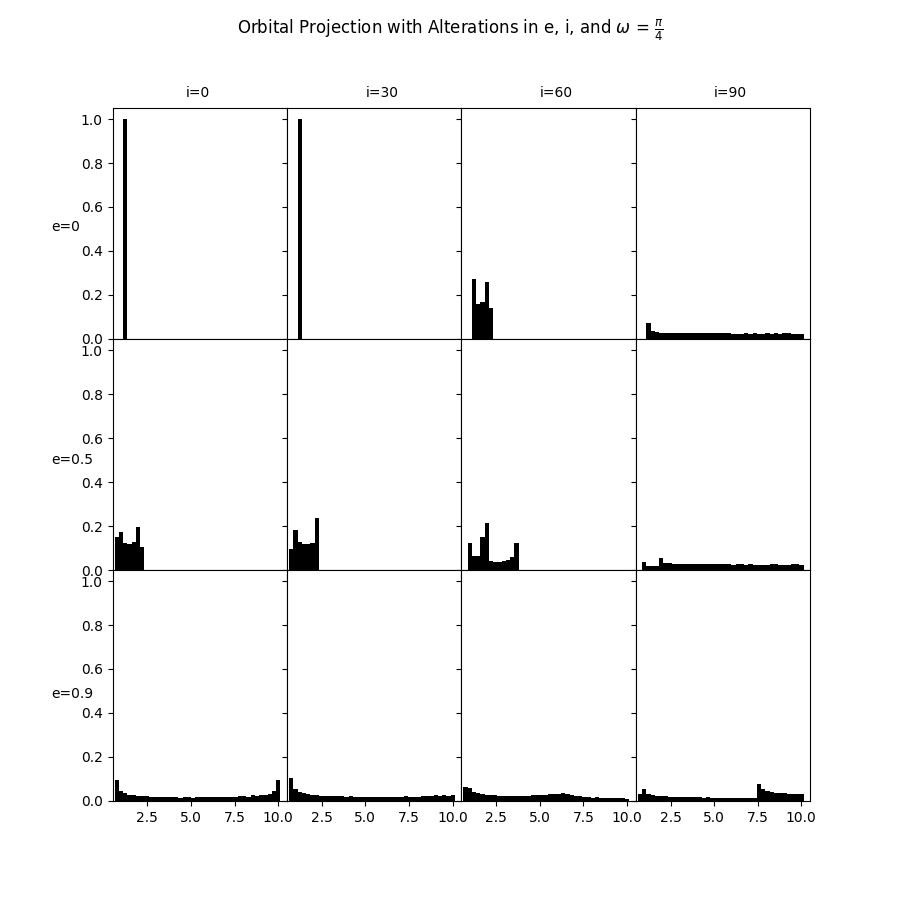
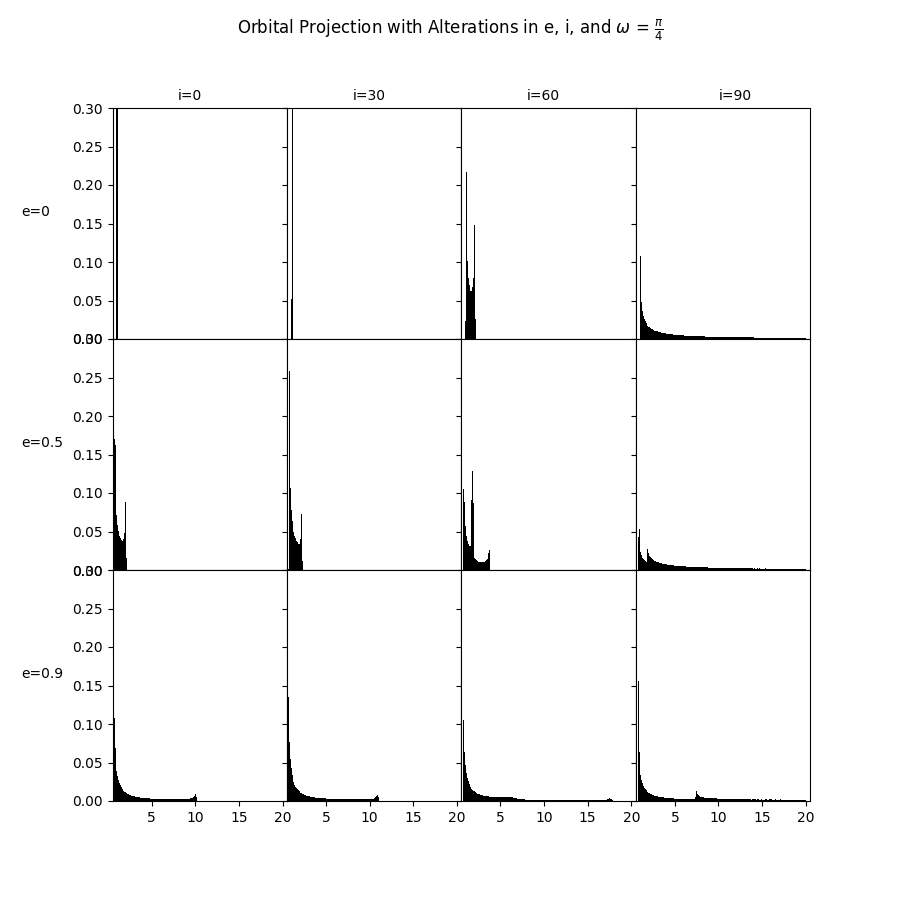
Refactored weighting in histogram to work properly, plotted 0.001 histogram quickly as well as 0.01

diff --git a/Sep.py b/Sep.py
@@ -788,10 +788,9 @@ def DataHist(w = 0, step = 0.001, end = 10):
     with Pool() as pool:
         totlist = pool.map(Rchange, param)
     
-    # totlist = [Rchange(param[0]), Rchange(param[1])]
     
-    
-    totaltime = end - start
+    end_time = time.perf_counter()
+    totaltime = end_time - start
     print(f"Time to Compute was {totaltime:.4f} seconds.")
     
     # totlist = [
@@ -986,16 +985,17 @@ def MultiPlotHist(w = 0, step = 0.001, end = 10):
     
     for j, ax  in enumerate(axs.flatten()):
         iterlist, x, y = totlist[j]
-        iterarray = np.array(iterlist)
-        tot_counts = np.ndarray.sum(iterarray)
-        normlist = iterlist / tot_counts    
+        # Convert list of arrays to a single array, filtering out zeros
+        flat_data = np.concatenate([arr[arr != 0] for arr in iterlist])
+        # Calculate weights for normalization
+        weights = np.ones_like(flat_data) / len(flat_data)
         
-        datahist, bins, patches = ax.hist(iterlist, bins = 200, range = (0.5,end+0.5), align = "right", linewidth = 6
-                                          , stacked=True, histtype = "barstacked", weights = normlist.tolist())
+        datahist, bins, patches = ax.hist(flat_data, bins=200, range=(0.5,end+0.5), 
+                                         align="right", stacked=True, histtype="barstacked", 
+                                         weights=weights)
         
         for patch in patches:
-            for rect in patch:
-                rect.set_facecolor("black")
+            patch.set_facecolor("black")
         ax.set_xlim(0.5,20.5)
         ax.set_ylim(0,0.3)
     
@@ -1006,7 +1006,7 @@ def MultiPlotHist(w = 0, step = 0.001, end = 10):
     plt.text(-32,0.91,"i=30")
     plt.text(-12,0.91,"i=60")
     plt.text(10, 0.91,"i=90")
-    plt.savefig('/College Projects/Microlensing Separation/Figures/MultiHist_omega_pi_4.png')
+    plt.savefig('/College Projects/Microlensing Separation/Figures/MultiHist_omega_pi_4_0001.png')
     plt.show()
     return iterlist
 
